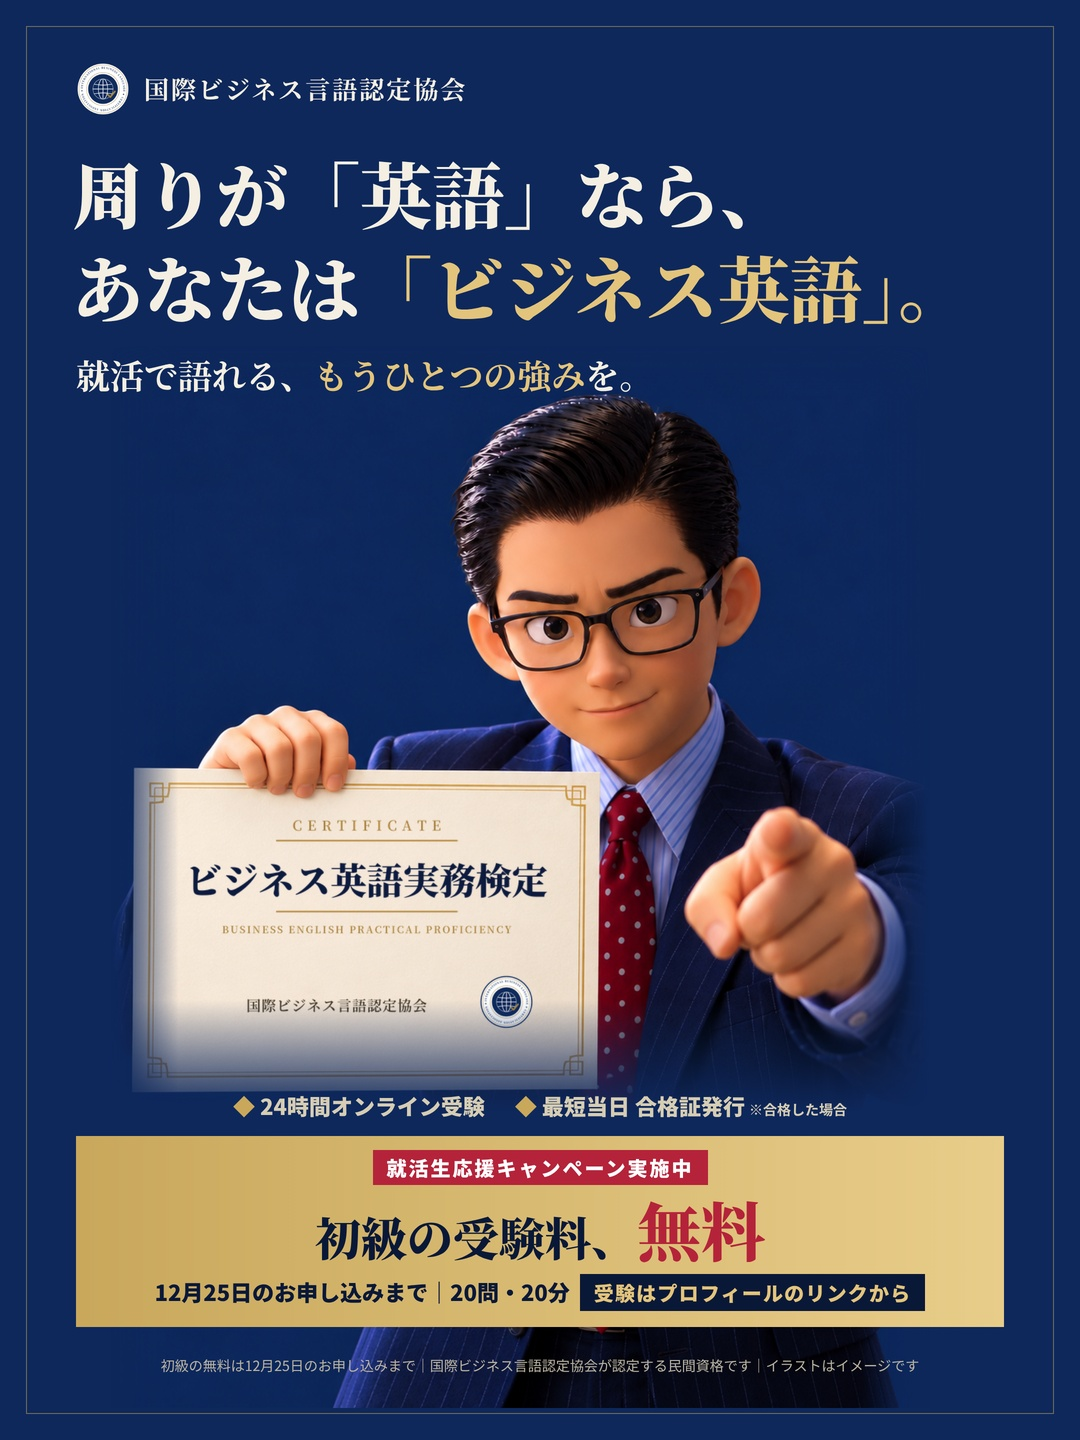
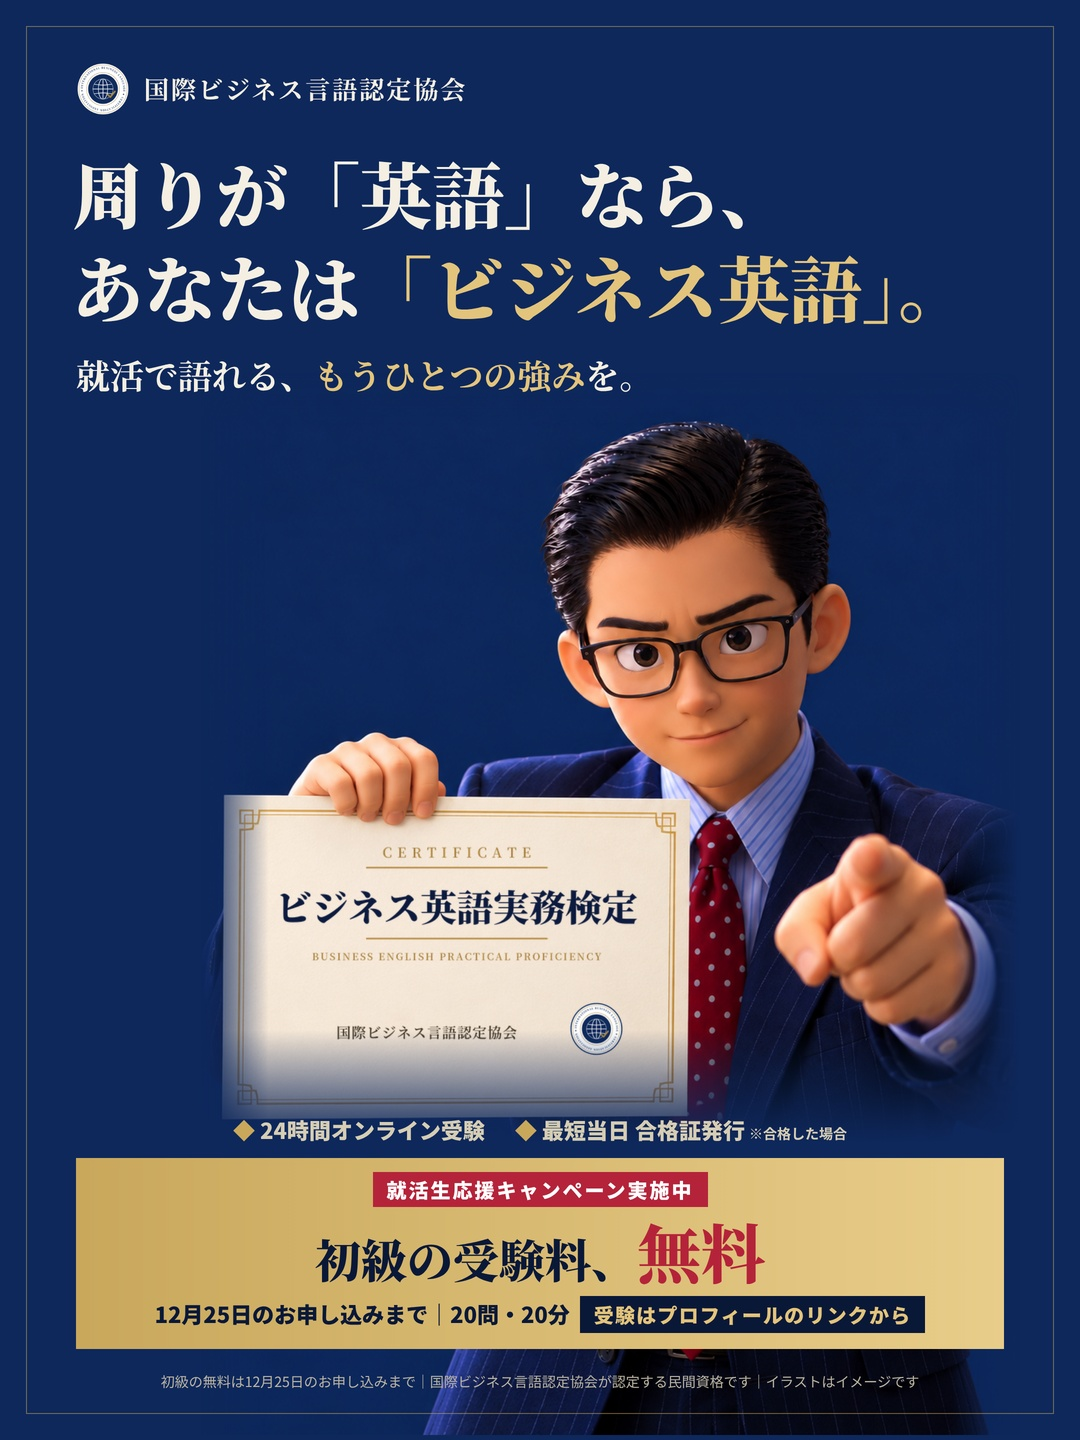
v19：ケンを右下へずらして見出しと重ならないように
Claude-Session: https://claude.ai/code/session_014p5jL2LKN9C3tYKst8GaL5

diff --git a/content/posters/ig_v19.html b/content/posters/ig_v19.html
@@ -10,11 +10,11 @@ body{font-family:"Noto Sans CJK JP",sans-serif;color:#f4efe2;-webkit-font-smooth
 .head em{font-style:normal;color:#e3c47c}
 .sub{position:absolute;z-index:4;left:76px;top:350px;font-family:"Noto Serif CJK JP",serif;font-weight:700;font-size:34px}
 .sub em{font-style:normal;color:#e3c47c}
-.ken{position:absolute;left:110px;top:315px;width:820px;z-index:1}
-.fadeb{position:absolute;left:0;right:0;top:1000px;height:150px;background:linear-gradient(180deg,rgba(14,40,92,0),#0e285c 75%);z-index:2}
-.chips{position:absolute;z-index:4;left:0;right:0;top:1090px;display:flex;justify-content:center;gap:30px;font-weight:900;font-size:22px;color:#d6cdb4}
+.ken{position:absolute;left:200px;top:342px;width:820px;z-index:1}
+.fadeb{position:absolute;left:0;right:0;top:1030px;height:150px;background:linear-gradient(180deg,rgba(14,40,92,0),#0e285c 75%);z-index:2}
+.chips{position:absolute;z-index:4;left:0;right:0;top:1114px;display:flex;justify-content:center;gap:30px;font-weight:900;font-size:22px;color:#d6cdb4}
 .chips span:before{content:"◆ ";color:#c9a85c}.chips small{font-size:14px;font-weight:700;margin-left:4px}
-.cta{position:absolute;z-index:4;left:76px;right:76px;top:1136px;background:linear-gradient(90deg,#c9a85c,#e8cd8a);color:#0a1838;text-align:center;padding:14px 12px 16px}
+.cta{position:absolute;z-index:4;left:76px;right:76px;top:1158px;background:linear-gradient(90deg,#c9a85c,#e8cd8a);color:#0a1838;text-align:center;padding:14px 12px 16px}
 .cta .t{display:inline-block;background:#b4233a;color:#fff;font-weight:900;font-size:20px;letter-spacing:.1em;padding:3px 14px}
 .cta .nm{margin-top:4px;font-family:"Noto Serif CJK JP",serif;font-weight:900;font-size:52px;line-height:1.15;letter-spacing:.04em}
 .cta .nm:after{content:"";display:block;width:460px;height:1.5px;background:rgba(10,24,56,.45);margin:6px auto 2px}
@@ -22,7 +22,7 @@ body{font-family:"Noto Sans CJK JP",sans-serif;color:#f4efe2;-webkit-font-smooth
 .cta .a b{font-size:64px;color:#b4233a}
 .cta .b{margin-top:6px;font-weight:900;font-size:22px}
 .cta .b span{display:inline-block;background:#0a1838;color:#e3c47c;padding:4px 14px;margin-left:10px;font-size:20px;letter-spacing:.06em}
-.note{position:absolute;z-index:4;left:0;right:0;top:1356px;text-align:center;font-size:14px;color:#b9b3a2}
+.note{position:absolute;z-index:4;left:0;right:0;top:1372px;text-align:center;font-size:14px;color:#b9b3a2}
 </style></head><body>
 <div class="frame"></div>
 <img class="ken" src="ken_cert2_fade.png"><div class="fadeb"></div>
